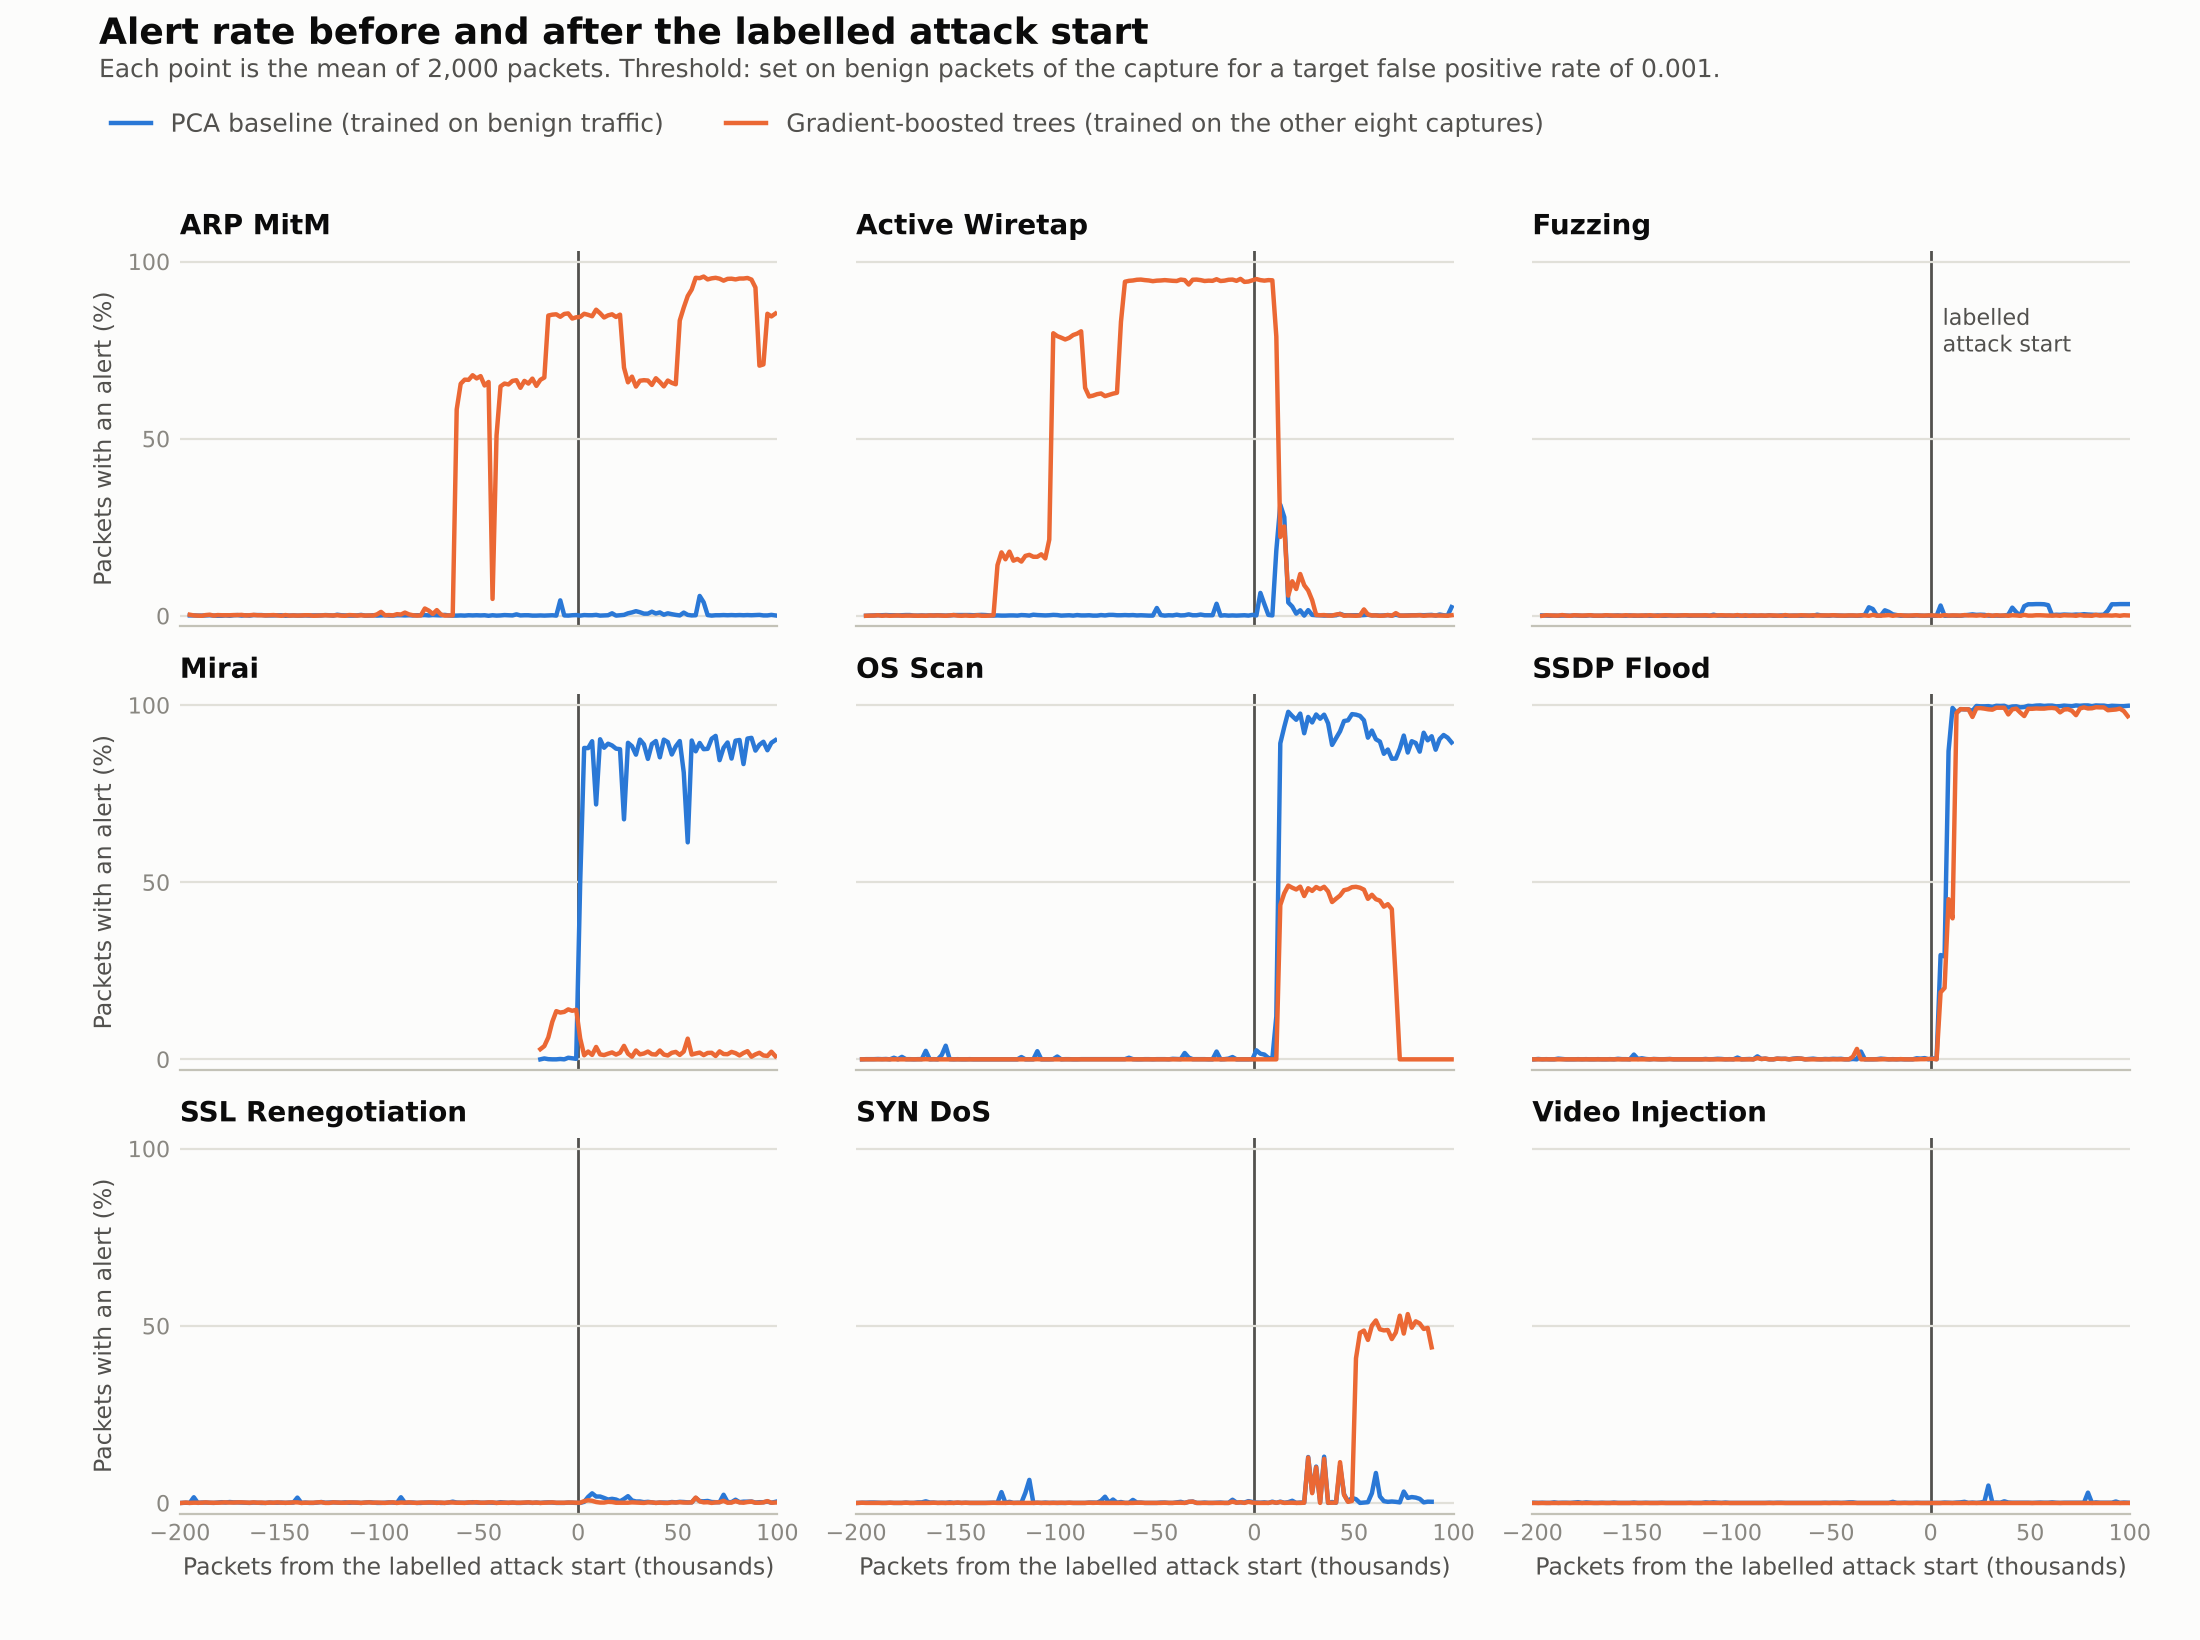
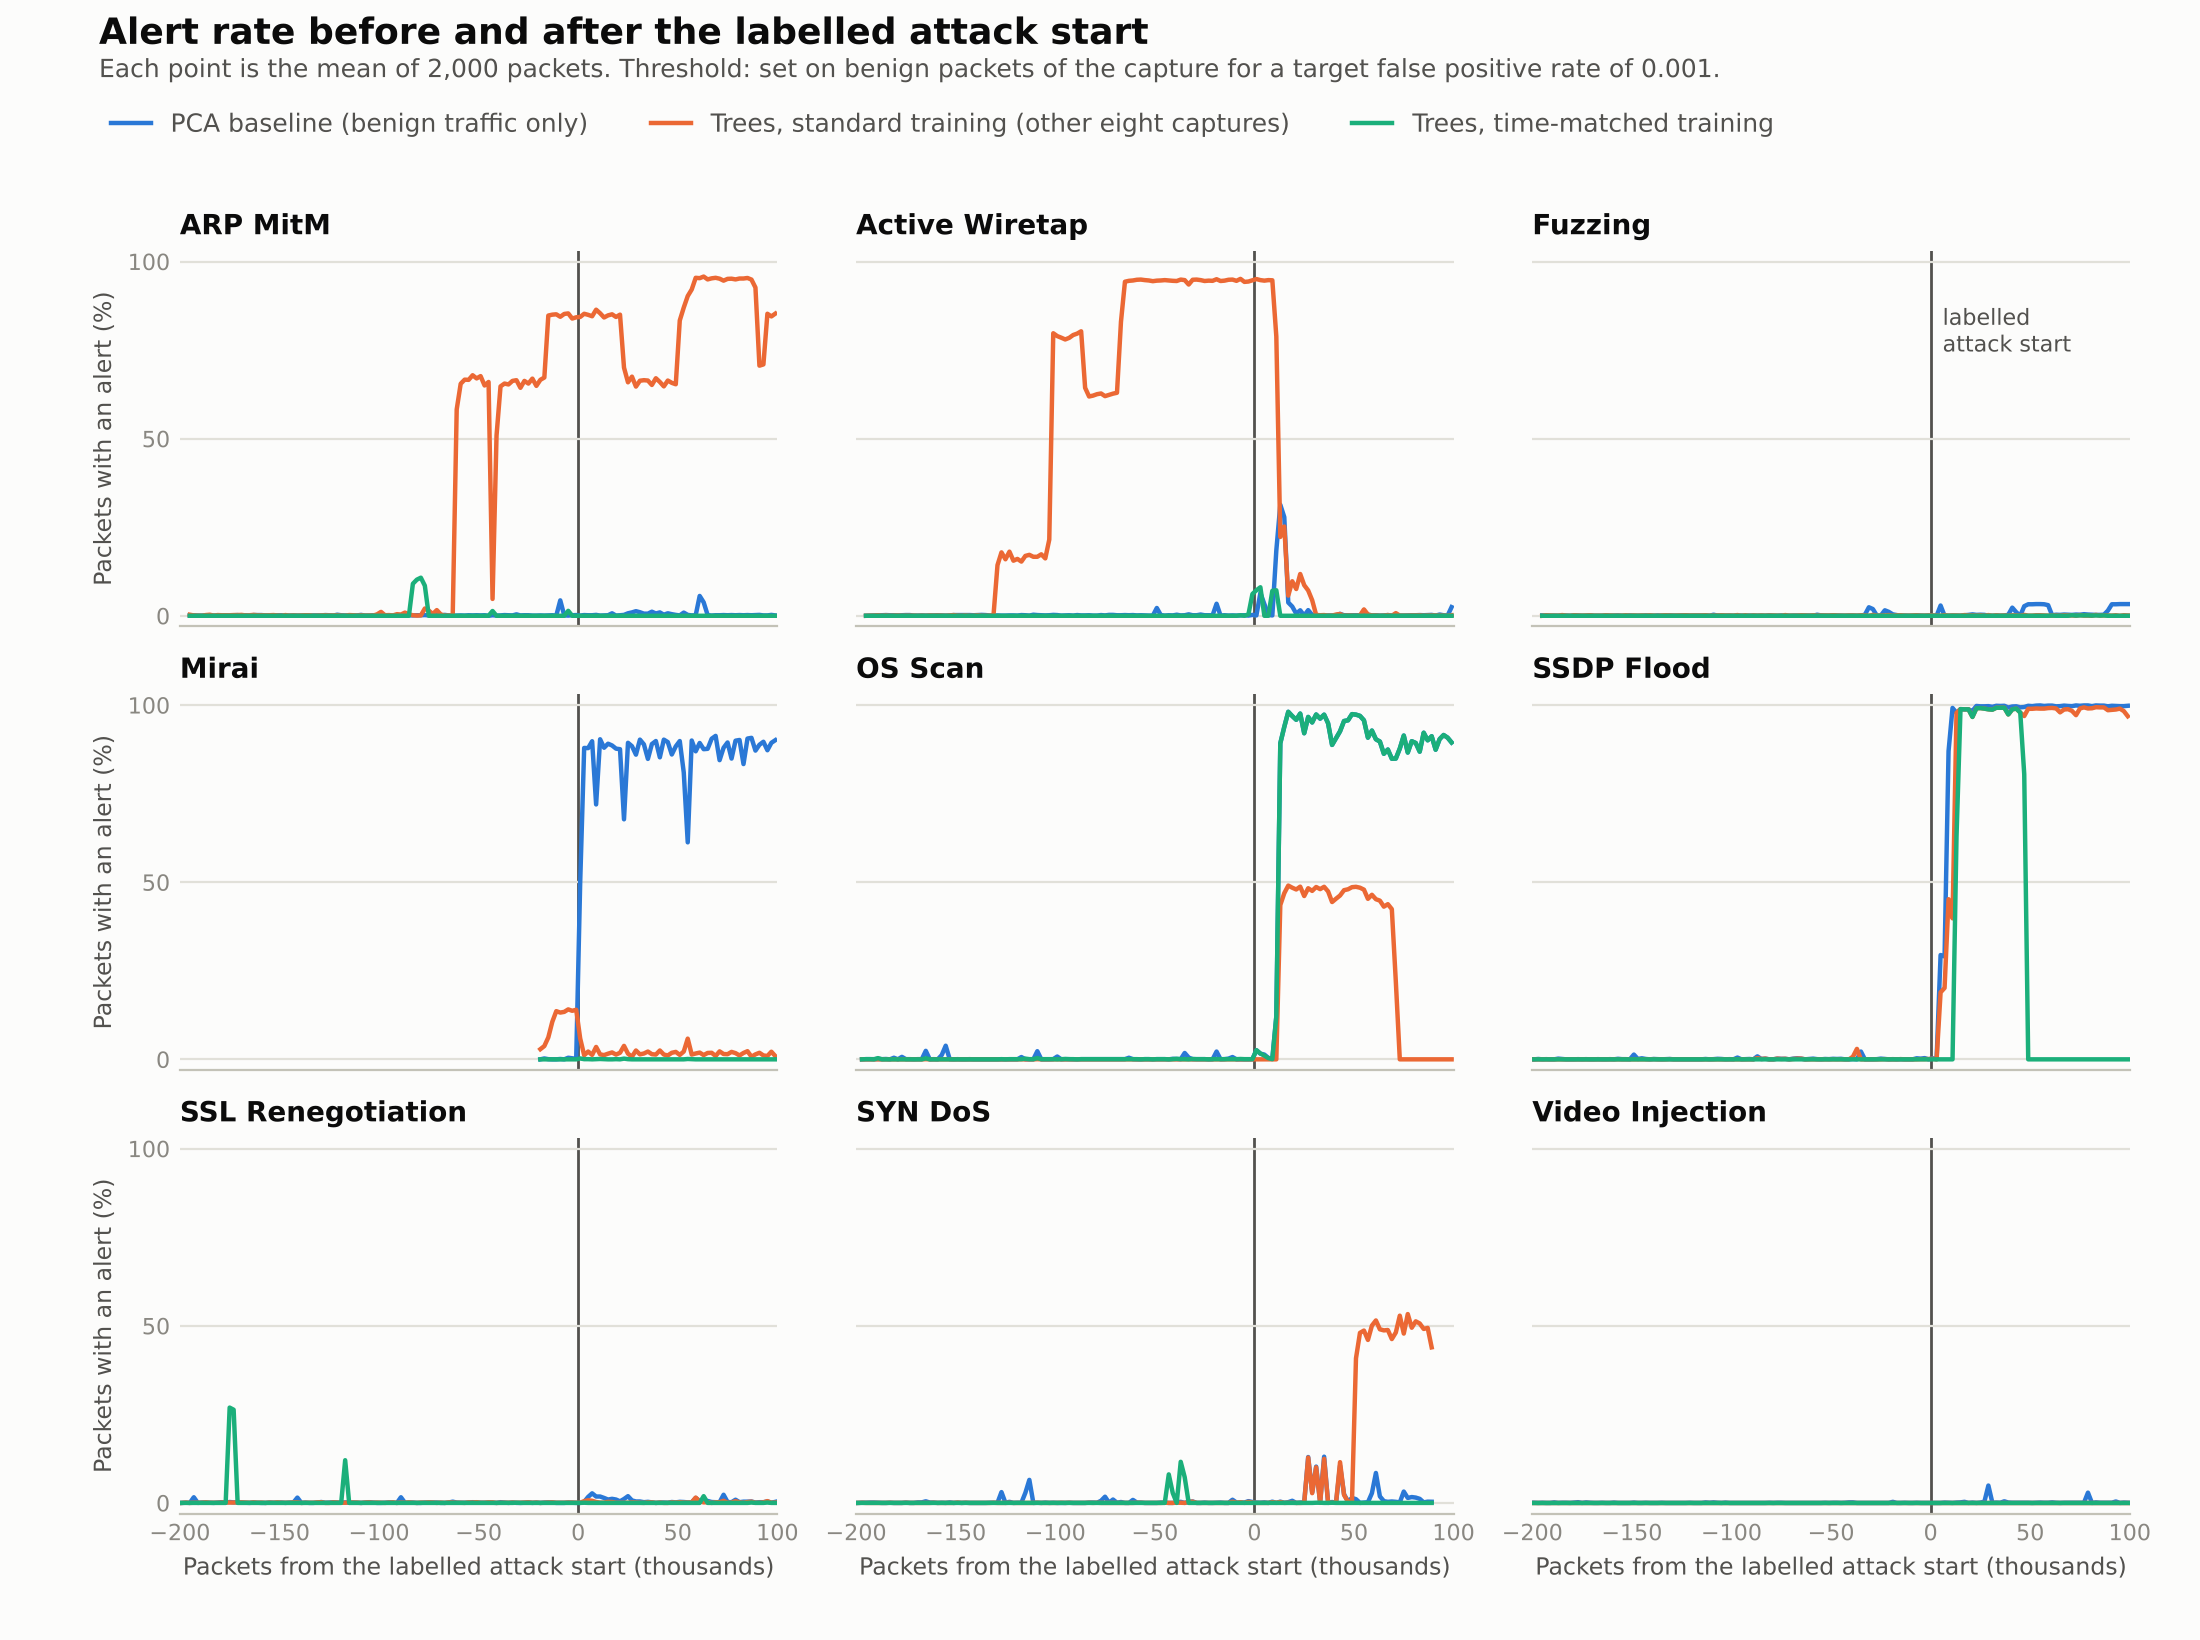
Add the results of the time confound test and the updated figure
The clock model predicts early or late benign traffic in an unseen
capture with a ROC-AUC of more than 0.85 for six of nine captures.
With time-matched training, the trees no longer give alerts before the
attack in ARP MitM and Active Wiretap, and no longer detect those two.

diff --git a/scripts/plot_alert_rate_near_onset.py b/scripts/plot_alert_rate_near_onset.py
@@ -4,8 +4,9 @@ Usage:
     python scripts/plot_alert_rate_near_onset.py <scores_dir> [output.png]
 
 <scores_dir> has the score files of the Kaggle runs:
-    baseline/<attack>.parquet        from notebook 02
-    supervised/gbt_<attack>.parquet  from notebook 03
+    baseline/<attack>.parquet                      from notebook 02
+    supervised/gbt_<attack>.parquet                from notebook 03
+    confound/gbt_time_matched_<attack>.parquet     from notebook 04, VARIANT = "time_matched"
 """
 
 import sys
@@ -23,8 +24,9 @@ BEFORE, AFTER = 200_000, 100_000
 TARGET_FPR = 1e-3
 
 SERIES = {  # model -> (label, colour, file pattern)
-    "pca_baseline": ("PCA baseline (trained on benign traffic)", "#2a78d6", "baseline/{a}.parquet"),
-    "gbt": ("Gradient-boosted trees (trained on the other eight captures)", "#eb6834", "supervised/gbt_{a}.parquet"),
+    "pca_baseline": ("PCA baseline (benign traffic only)", "#2a78d6", "baseline/{a}.parquet"),
+    "gbt": ("Trees, standard training (other eight captures)", "#eb6834", "supervised/gbt_{a}.parquet"),
+    "gbt_time_matched": ("Trees, time-matched training", "#1baf7a", "confound/gbt_time_matched_{a}.parquet"),
 }
 TITLES = {
     "arp_mitm": "ARP MitM", "active_wiretap": "Active Wiretap", "fuzzing": "Fuzzing",
@@ -50,6 +52,7 @@ def main(scores_dir: Path, out: Path):
     results = pd.concat([
         pd.read_csv(REPO / "results" / "baseline_pca.csv"),
         pd.read_csv(REPO / "results" / "supervised_leave_one_out.csv"),
+        pd.read_csv(REPO / "results" / "supervised_time_matched.csv"),
     ])
     results = results[(results.target_fpr == TARGET_FPR) & (results.k == 1) & (results.n == 1)]
     results = results.set_index(["attack", "model"])
@@ -83,7 +86,7 @@ def main(scores_dir: Path, out: Path):
              f"Each point is the mean of {BIN:,} packets. Threshold: set on benign packets of the capture for a target "
              f"false positive rate of {TARGET_FPR:g}.", ha="left", fontsize=9, color=INK2)
     handles, labels = axes[0, 0].get_legend_handles_labels()
-    fig.legend(handles, labels, loc="upper left", bbox_to_anchor=(0.04, 0.945), ncol=2, frameon=False,
+    fig.legend(handles, labels, loc="upper left", bbox_to_anchor=(0.04, 0.945), ncol=3, frameon=False,
                fontsize=9, labelcolor=INK2, handlelength=1.6, columnspacing=2.5)
     fig.tight_layout(rect=(0.03, 0.02, 0.99, 0.925))
     out.parent.mkdir(parents=True, exist_ok=True)
